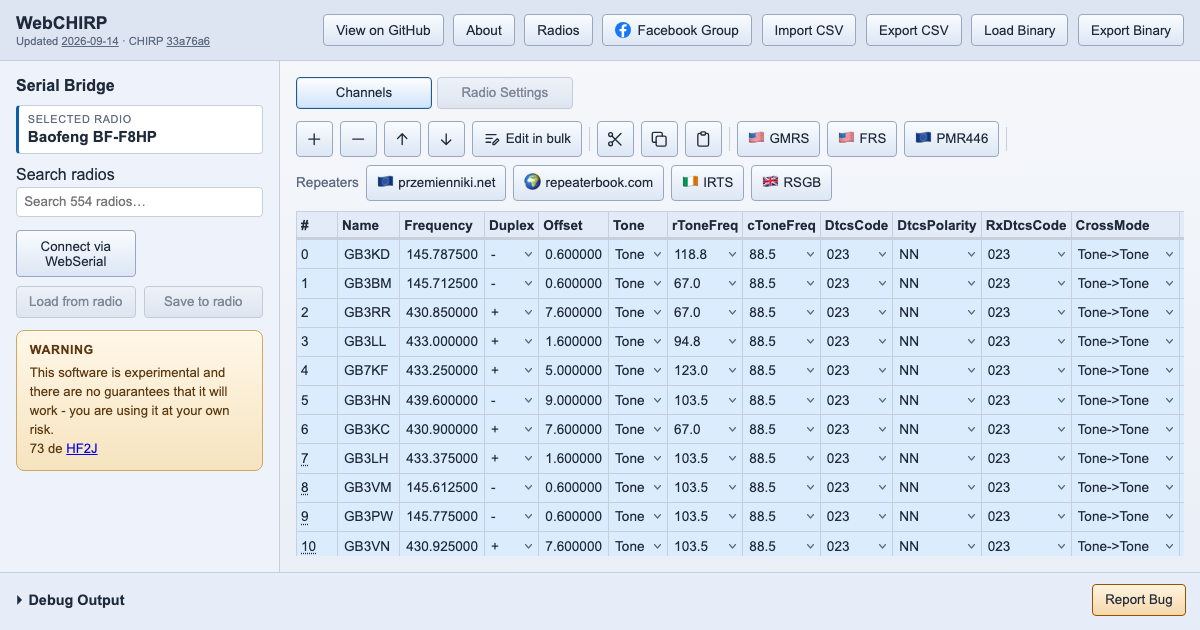
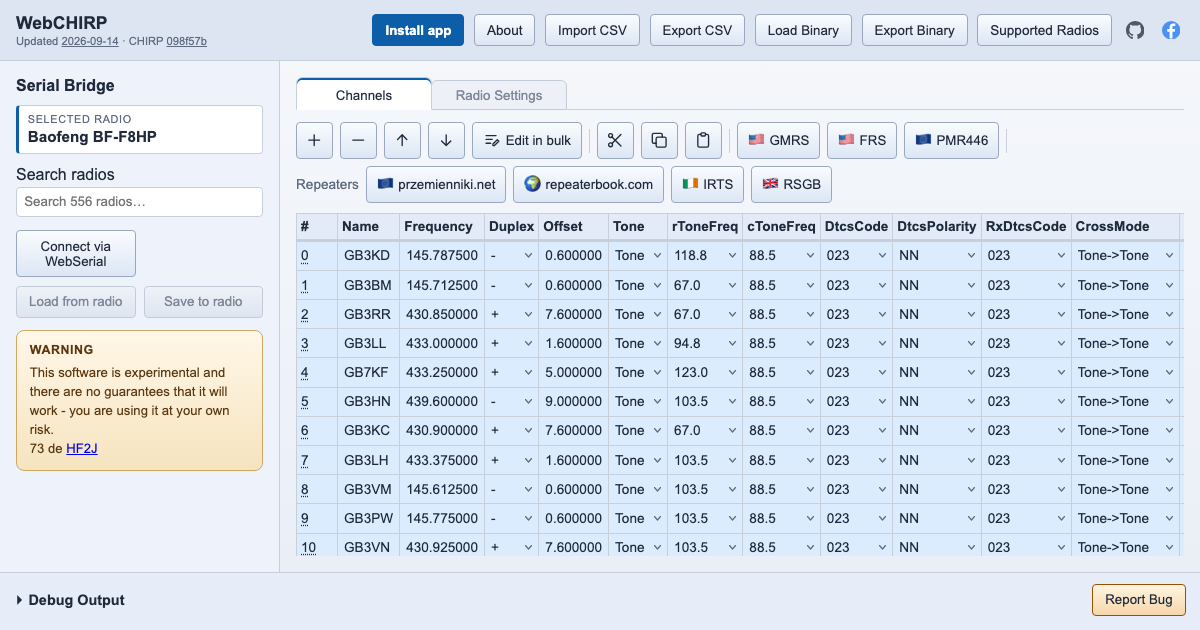
Give Chrome the screenshots its rich install dialog needs
Chrome's install dialog has two forms. With a description and screenshots
matching the device's form factor it shows the app's description and a
screenshot carousel; without them it is a bare icon-and-origin sheet. The
manifest had the description but no screenshots, so every install offer was the
weaker one, and nothing reports the downgrade.

The manifest now carries a narrow screenshot for phones and a wide one for
desktop, both captured by npm run screenshots rather than drawn, so they cannot
drift from the app. The narrow shot renders under real device emulation and is
framed on the channel grid: a phone stacks the sidebar above the editor, so an
unscrolled capture is a page of buttons and a disclaimer with the app itself
below the fold.

tests/build/web-manifest.mjs pins the constraints Chrome applies silently --
320px to 3840px a side, neither side over 2.3x the other, and one aspect ratio
per form factor -- and both files are now required to reach dist.

Changed region(s): [[0.2467, 0.1206, 0.9867, 0.8746], [0.2775, 0.0, 0.9867, 0.0905], [0.1542, 0.0603, 0.185, 0.0905]]

diff --git a/FINDINGS.md b/FINDINGS.md
@@ -208,6 +208,8 @@ after 2026-09-14 are against this pin, and dated counts name their own.
 ## PWA / install
 
 - **pwa-install-needs-no-service-worker** (2026-08-02): Chrome dropped the service-worker requirement for installation in **108 on Android** (112 on desktop) — `web/manifest.webmanifest` plus a 192 and a 512 icon is enough for Chrome on Android to mint a WebAPK (standalone window, launcher icon, own task in the app switcher). The old criteria caused sites to bolt on empty `fetch` handlers purely to pass the check, which is why the requirement went away; do not add a pass-through service worker here to "make it installable". A worker is still the way to get *deterministic* caching — a WebAPK's storage is Chrome's ordinary evictable HTTP cache, so a returning user can silently re-download the whole Pyodide payload — but that is real offline work (Pyodide + the CHIRP wheel + `web-serial-polyfill`, all cross-origin from jsDelivr), and it has to coordinate with the hashed-asset scheme `scripts/retain-deployed-assets.mjs` already manages. Startup itself is cheap and does **not** pull driver sources: `loadRadioCatalogFromStatic()` reads the 86 KB (2026-09-06) `web/radio-catalog.json` and Pyodide never boots (see **static-driver-catalog**).
+- **installable-is-not-discoverable** (2026-09-18): the app met Chrome's install criteria from the day the manifest landed, and installs still barely happened, because meeting them buys almost no *visibility* on Android: Chrome advertises an installable app through an ambient badge gated on its own engagement heuristics and suppressed for months after a single dismissal, and otherwise only through "Add to Home screen" in the browser menu. The fix is the affordance, not the criteria — `web/js/install-prompt.js` cancels `beforeinstallprompt`, parks the event, and `web/js/ui/install-button.js` raises it from a filled toolbar button. Four things this turned on. **Cancelling is a per-page decision**: it removes the browser's own offer, so it is only safe where a replacement exists, which is why the module is loaded by `index.html` alone and `about.html` keeps the native prompt. **Capture has to be early**: the event can fire before `createUiController()` has bound anything (the app boots behind a serial capability check), so the listener goes in a page-level module in the head, and the UI reads `isInstallAvailable()` once at bind time rather than only subscribing to changes. **An event may be raised once** — `prompt()` on a spent event rejects — so the parked event is dropped *before* prompting and the button hides itself, or a second tap looks like a dead control. **Measurement did not have to move**: `bindInstallTracking()` in `web/js/analytics.js` watches the same event without cancelling it, and `preventDefault()` from a second listener is honoured whichever registered first, so one funnel now reads `pwa_install_prompt` (available) → `pwa_install_clicked` → `pwa_install_choice` (answer) → `pwa_installed` across both pages. Verified incidentally by the screenshot rig: headless Chrome on `http://localhost:<port>` is a secure context that fires the event, so the button appears in `web/images/screenshot-narrow.png` — which is also the cheapest way to see the whole path work without a phone.
+- **the-rich-install-dialog-is-a-manifest-feature** (2026-09-18): Chrome's install dialog has two forms, and which one a user sees is decided entirely by manifest metadata: with `description` **and** `screenshots` carrying a `form_factor` matching the device, it shows the app's description and a screenshot carousel; without them it is a bare icon-and-origin sheet. Nothing reports the downgrade — the dialog simply renders smaller — so the constraints are pinned in `tests/build/web-manifest.mjs`: no side under 320px or over 3840px, neither side more than **2.3x** the other, and every screenshot of one `form_factor` sharing an aspect ratio, since a mismatch discards the whole set rather than the odd one out. `narrow` is the Android one; `wide` only covers desktop. The images are captured by `scripts/update-screenshots.mjs` rather than drawn, so they cannot drift from the app, and two things about that capture matter: the narrow shot needs real device emulation (`mobile: true`) to cross the 900px and 560px breakpoints into the phone layout, and it has to be **scrolled to `#channel-editor`** before capture — a phone stacks the sidebar above the editor, so an unscrolled capture is a page of buttons and the experimental-software disclaimer with the channel grid entirely below the fold. `scale: 2` is what keeps it from looking soft in a dialog shown on a phone display.
 - **webapk-start-url-changes-take-days** (2026-08-05): editing `start_url` does not reach installed apps for a day or more — Chrome re-reads the manifest roughly daily and only then queues Play Services to re-mint the WebAPK. Until that lands, an installed app launches the old URL and its hits carry the old `dl`, so a freshly deployed analytics marker looks broken when it is merely not propagated. Check `location.href` in the running app before debugging anything else; a fresh install picks the new value up immediately and is the fastest way to confirm the manifest itself is right.
 
 ## Analytics
